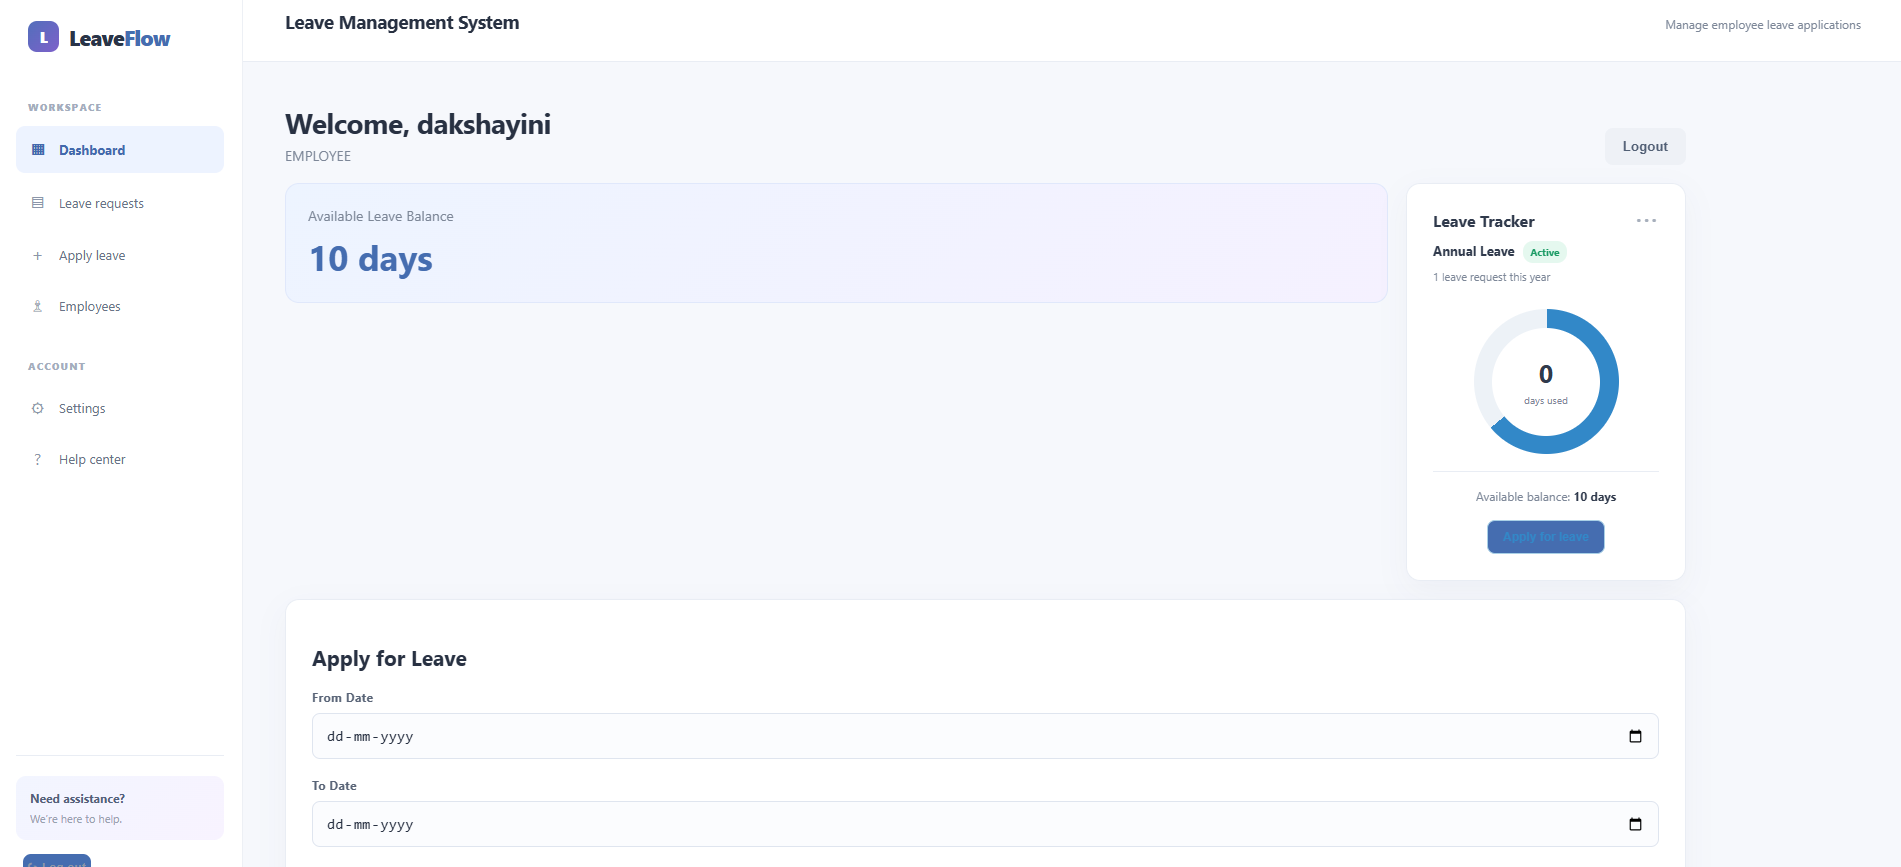
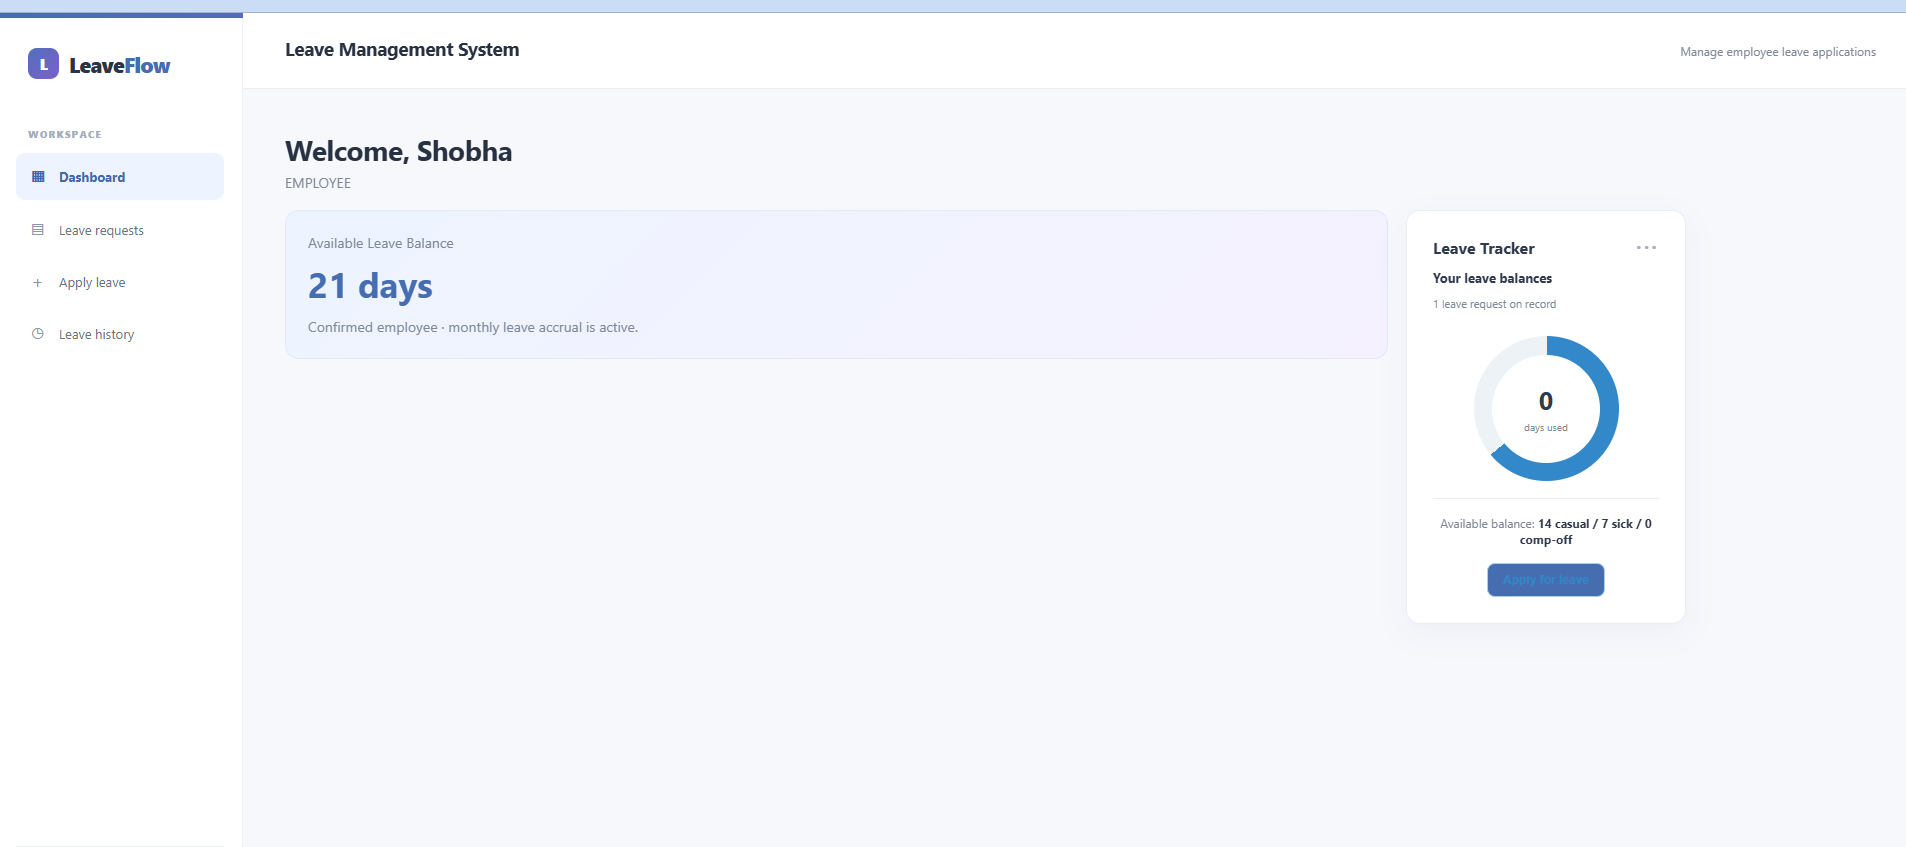
Refresh README screenshots for current UI

diff --git a/README.md b/README.md
@@ -101,11 +101,20 @@ The test suite covers invalid dates, insufficient balance, and overlapping appro
 ### Login screen
 ![Login screen](docs/screenshots/login.png)
 
+### Admin dashboard
+![Admin dashboard](docs/screenshots/admin-dashboard.png)
+
 ### Employee dashboard
 ![Employee dashboard](docs/screenshots/employee-dashboard.png)
 
 ### Admin leave requests
 ![Admin leave requests](docs/screenshots/admin-leave-requests.png)
+
+### Employee leave requests
+![Employee leave requests](docs/screenshots/employee-leave-requests.png)
+
+### Admin employee directory and onboarding
+![Admin employee directory and onboarding](docs/screenshots/admin-employees.png)
 
 ### Docker containers
 ![Docker containers](docs/screenshots/docker-running.png)
